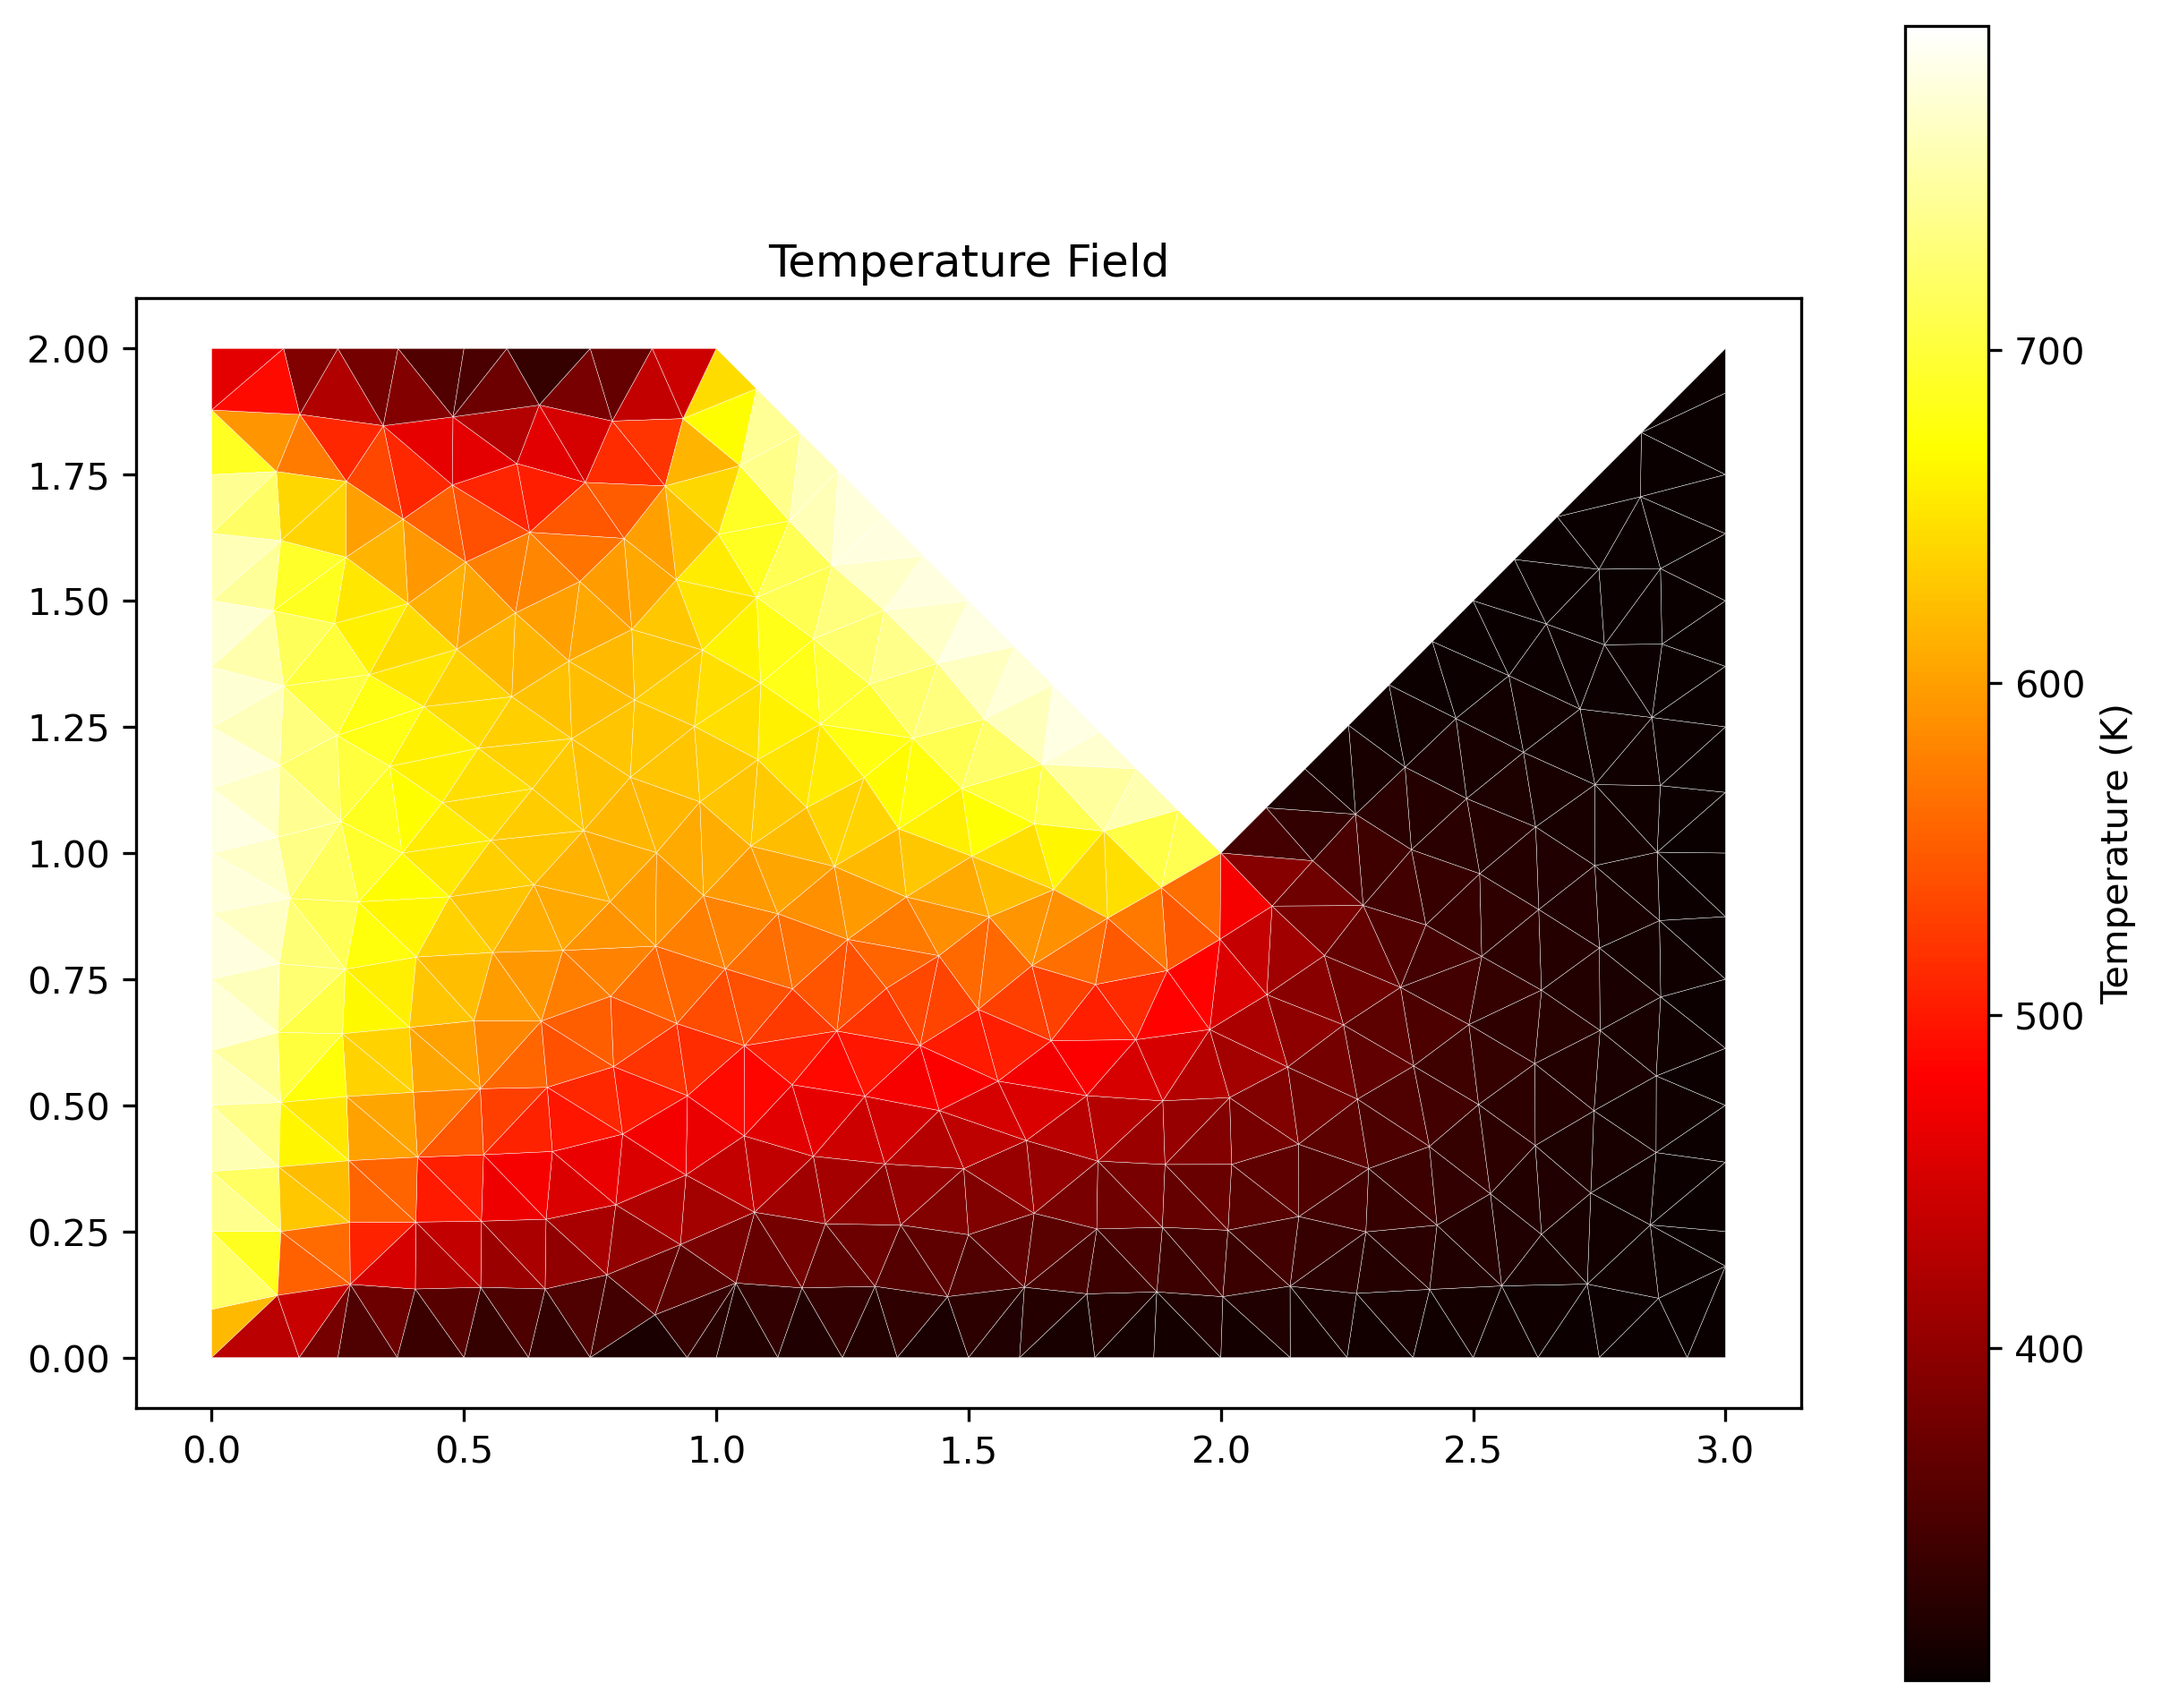
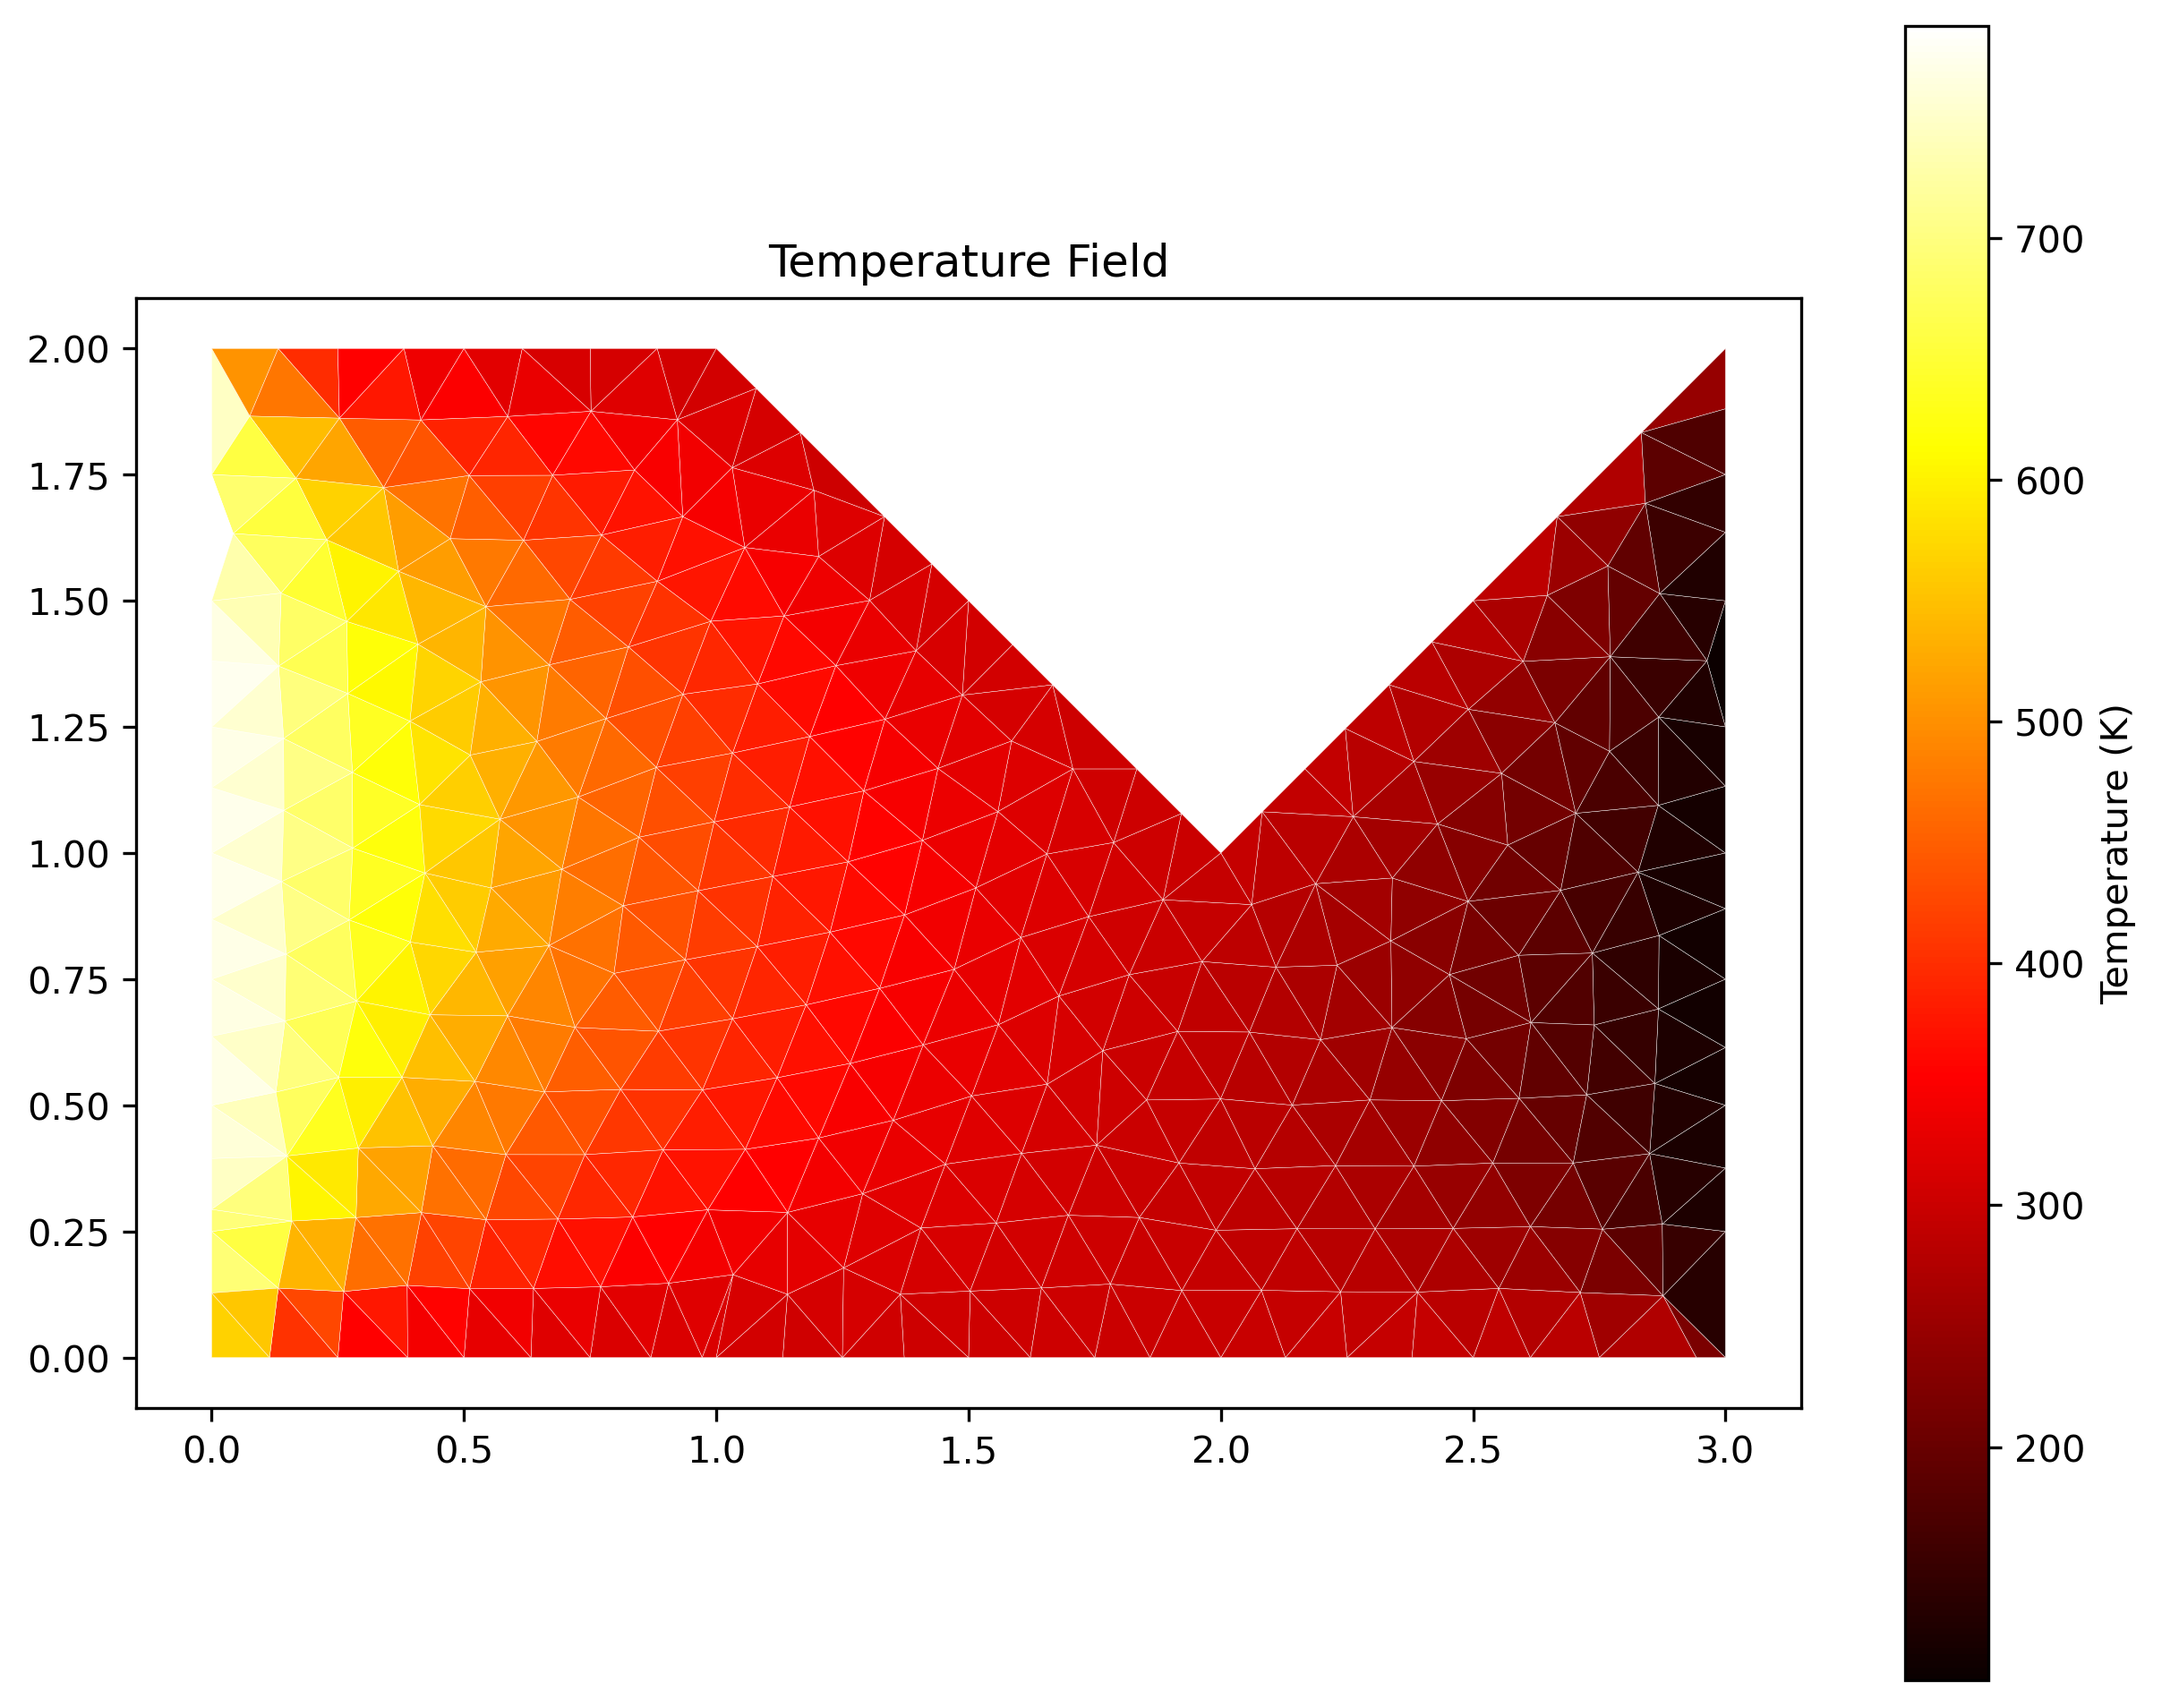
Added settings header section parsing to the input file loader.

diff --git a/core/parser.py b/core/parser.py
@@ -48,27 +48,29 @@ class Parser:
         self.curToken = None; self.peekToken = None
         self.nextToken(); self.nextToken()
         
-        # 1. Data Storage
+        # 1. Data Storage - Initialize mode to 'axisymmetric' by default
         self.data = {
+            "settings": {"mode": "axisymmetric"}, # Default setting
             "nodes": [], 
             "faces": [], 
             "constraints": [], 
             "fields": []
         }
         
-        # 2. Lookup Tables (Enums for Input File Strings)
+        # 2. Lookup Tables
         self.constraint_types = {'fixed':0, 'line':1, 'circle':2}
         self.field_types = {'global':0, 'box':1}
 
-        # 3. Dispatch Table: Maps Section Name -> Handler Method
+        # 3. Dispatch Table
         self.section_handlers = {
+            "settings": self.parse_settings, # NEW
             "nodes": self.parse_nodes,
             "faces": self.parse_faces,
             "constraints": self.parse_constraints,
             "fields": self.parse_fields,
-            "cells": self.skip_section # Placeholder for future
+            "cells": self.skip_section 
         }
-
+        
     # --- Core Parsing Helpers ---
     def checkToken(self, kind): return self.kind == kind
     
@@ -115,16 +117,26 @@ class Parser:
         self.match(TokenType.IDENTIFIER)
         self.match(TokenType.RBRACKET)
 
-        # Dispatcher Logic
         handler = self.section_handlers.get(section_name)
         if not handler:
             self.abort(f"Unknown section: [{section_name}]")
         
-        # Run the specific handler until we run out of numbers
-        while self.checkToken(TokenType.NUMBER):
+        # Updated Loop: Run handler if row starts with a NUMBER or IDENTIFIER
+        while self.checkToken(TokenType.NUMBER) or self.checkToken(TokenType.IDENTIFIER):
             handler()
 
     # --- Individual Handlers ---
+    def parse_settings(self):
+        """ Parses key-value pairs like 'mode axisymmetric' """
+        key = self.curToken.text.lower()
+        self.match(TokenType.IDENTIFIER)
+        
+        val = self.curToken.text.lower()
+        self.match(TokenType.IDENTIFIER)
+        
+        # Update the settings dictionary
+        self.data['settings'][key] = val
+        
     def parse_nodes(self):
         nid = self.expect_int()
         x   = self.expect_float()
@@ -161,7 +173,9 @@ class Parser:
         self.nextToken() 
 
     def get_arrays(self):
+        """ Returns the structured data including the settings dictionary. """
         return {
+            "settings":    self.data['settings'], # Return as a dict
             "nodes":       np.array(self.data['nodes'], dtype=NODE_DTYPE),
             "faces":       np.array(self.data['faces'], dtype=FACE_DTYPE),
             "constraints": np.array(self.data['constraints'], dtype=CONSTRAINT_DTYPE),
@@ -179,7 +193,8 @@ def input_reader(filename):
     
     
     
+ 
     
-    
-    
+
+
     

diff --git a/main.py b/main.py
@@ -10,6 +10,10 @@ from solver.steady_state import solve_diffusion
 
 if __name__ == '__main__':
     data = input_reader('geom1.inp')
+    
+    calc_mode = data['settings'].get('mode', 'axisymmetric')
+    print(f"Calculation Mode: {calc_mode}")
+
     mesh = MeshGenerator(data, smoother=distmesh_smoother)
     smoothed_points, final_cells = mesh.generate(niters=1000)    
     
@@ -23,7 +27,7 @@ if __name__ == '__main__':
     d_PN, gx, vec_PN = compute_fvm_weights(face_cells, cell_centroids, face_midpoints)
     
     # 1. Define Temperature Gradient (800K Inlet, 300K Walls/Outlet)
-    boundary_conditions = {1: 800.0, 2: 300.0, 3: 300.0}
+    boundary_conditions = {1: 800.0, 2: 300.0, 3: 100.0}
     T = solve_diffusion(face_cells, face_lengths, d_PN, bc_groups, k=1.0, bc_values=boundary_conditions)
     
     # 2. Print Reports
